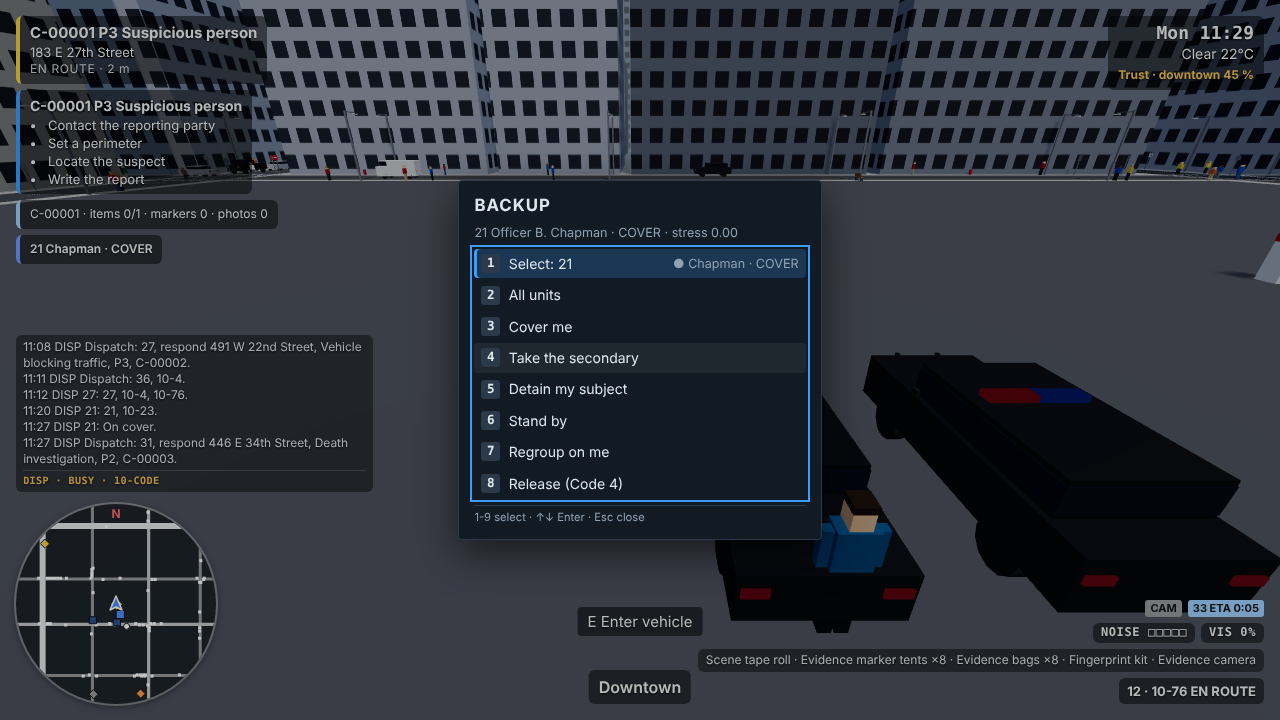
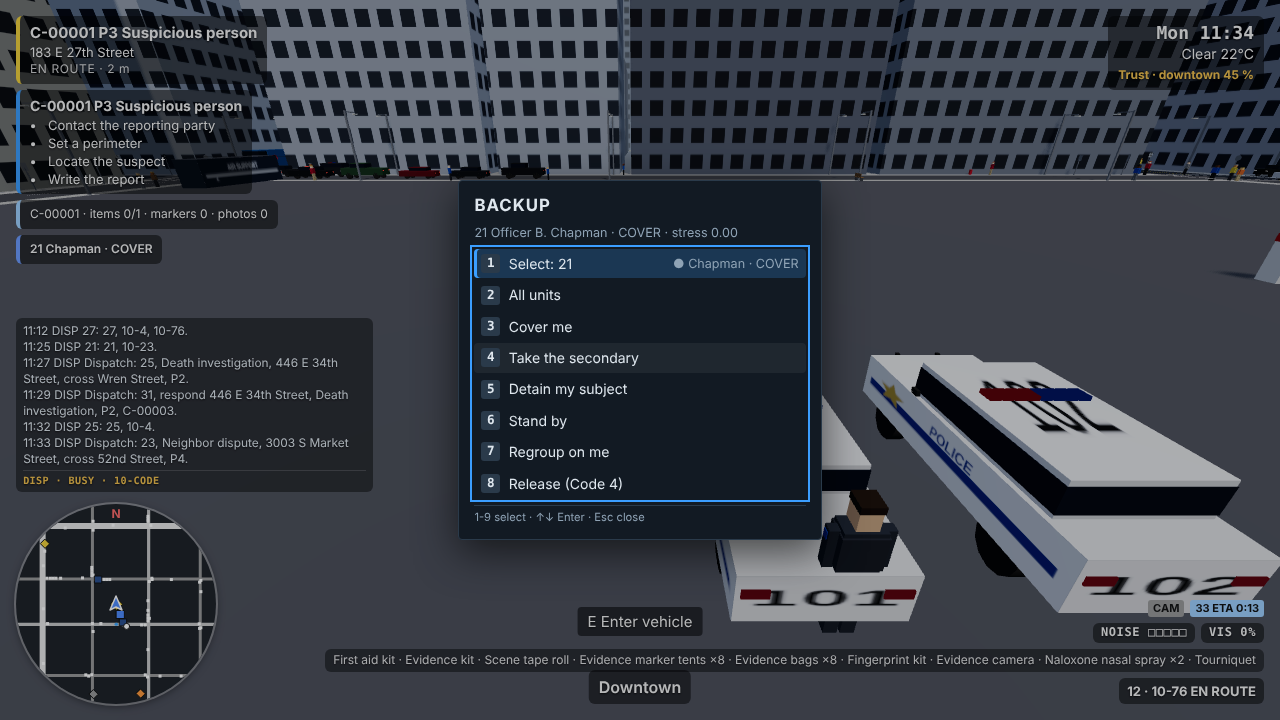
WIP Phase 7: integrated, full smoke passed
Claude-Session: https://claude.ai/code/session_01Rvcmrw7QNVTdDc1VKr5xNY

diff --git a/docs/PHASES.md b/docs/PHASES.md
@@ -536,7 +536,7 @@ The fleet key can be rebound under *Settings > Controls*. The fleet panel does n
 
 ### Performance
 - Node (seed 42, fixed steps with the four-unit fleet parked): the fleet system costs about 0 ms per idle step (event driven; a request step ≤ 0.2 ms), crafts use the O(1) integrator plus one character-controller query each, wear is a few typed-array operations per vehicle (see the per-system timings in the smoke output below).
-- Headless Chromium with SwiftShader (1280x720, software GL, ~1 fps, so these are draw-call and sim counts, not frame rates): see `npm run smoke` output `perf phase 7`; the livery shells add at most 8 draw calls, the accessory mesh 1, each new vehicle model in view 2-3.
+- Headless Chromium with SwiftShader (1280x720, software GL, ~1 fps, so these are draw-call and sim counts, not frame rates): measured in the final smoke (Phase 7 on patrol, four-unit fleet, 157 cars): 71 draw calls (cap 300), 178k triangles, sim 4.0 ms for 5 steps (fleet 0 ms, vehicles.pre 0.1 ms, vehicles.post 0 ms, physics 0.2 ms), render submit 1.2 ms, 4 livery shells = 4 draw calls and 60 repaints. Frame breakdown on foot in the day: 2 fps = sim 6.3 ms + update 1.9 ms + render submit 1.4 ms + 500 ms GPU wait (software GL); the livery shells add at most 8 draw calls, the accessory mesh 1, each new vehicle model in view 2-3. Zero console errors and zero app warnings.
 - Save size: a v9 save adds the character (~1 KiB), the gear (~1 KiB), the fleet (17 units, a few KiB; 32 custom liveries at most 8 KiB each).
 
 ### Known limitations
